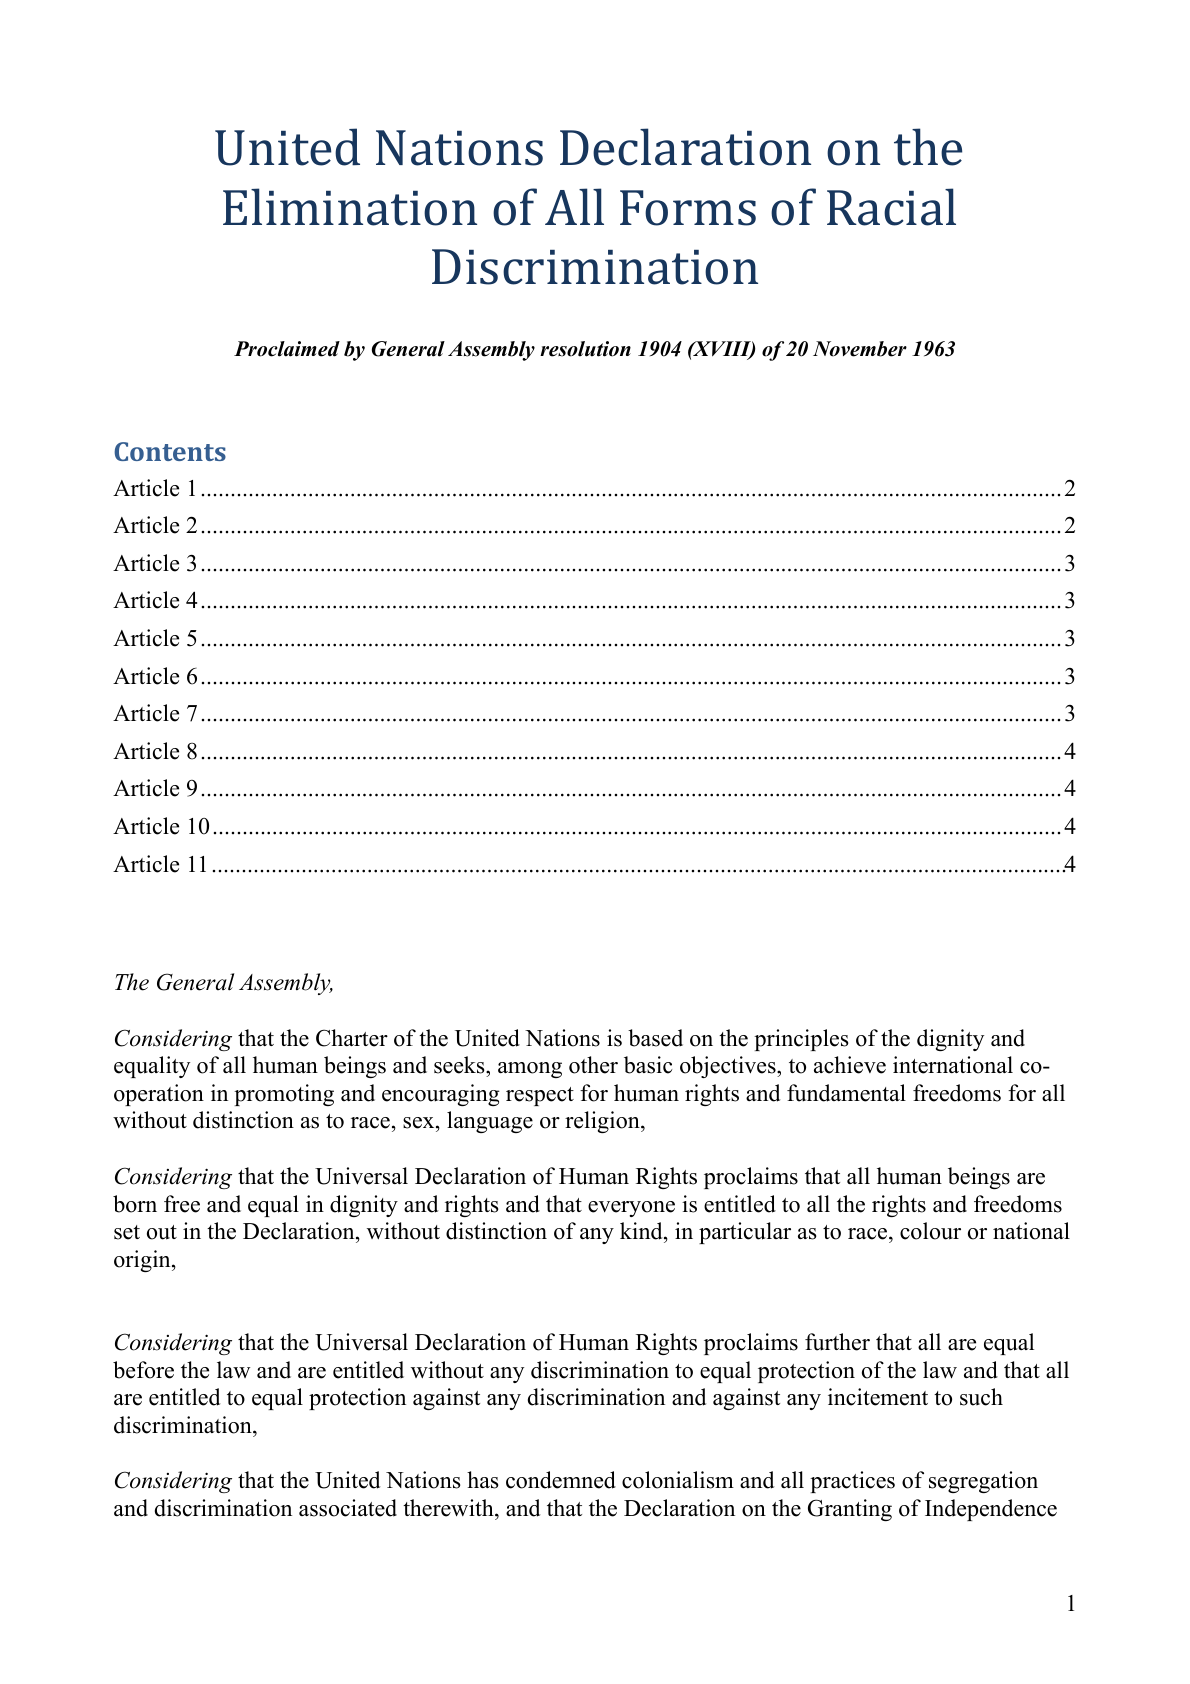
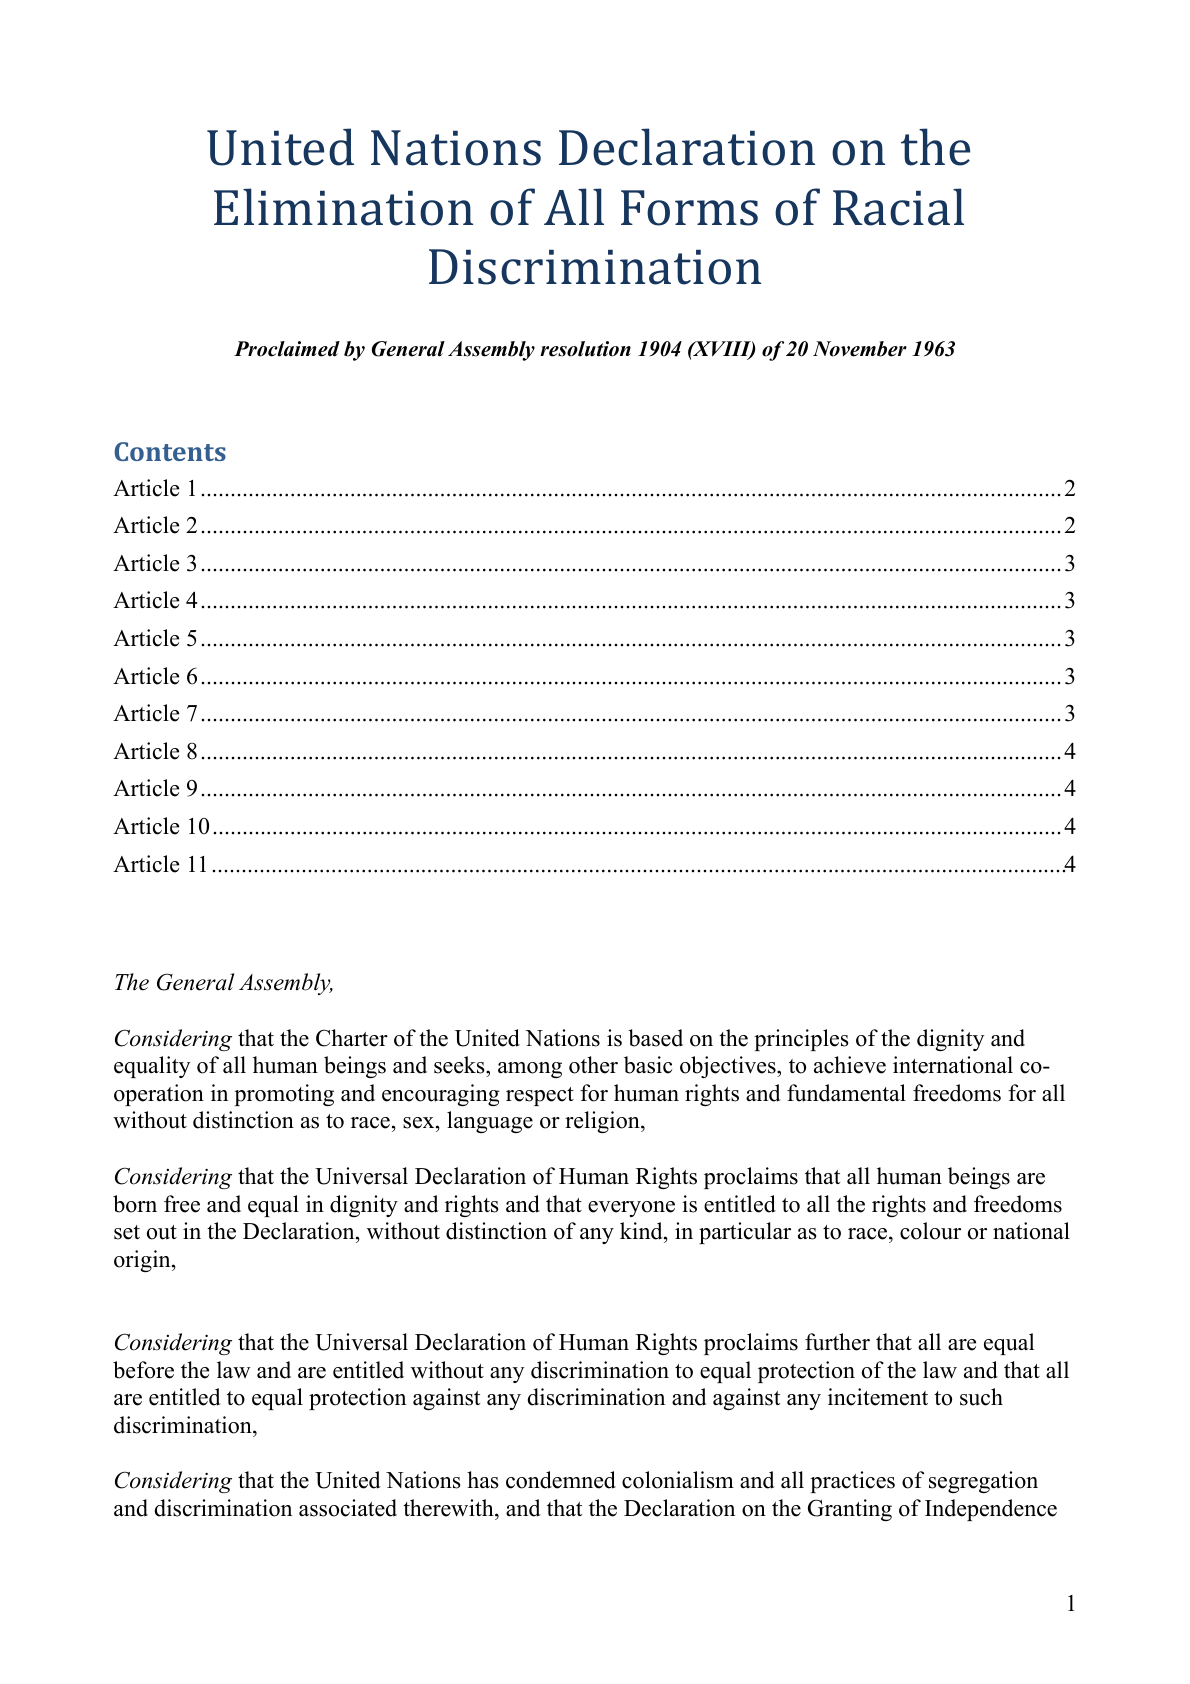
Word TOC parity: honor title character spacing

Changed region(s): [[0.1555, 0.0618, 0.4975, 0.1853], [0.5286, 0.0618, 0.8084, 0.1853]]

diff --git a/docs/word-parity-fixes.html b/docs/word-parity-fixes.html
@@ -153,6 +153,40 @@
     <tbody>
       <tr>
         <td>
+          <strong>TOC title character spacing</strong>
+          <span class="meta">Repro: <code>docx4j-toc.docx</code> Title paragraph on page 1.</span>
+          <span class="meta">Real fixture class: DOCX title/heading styles with expanded run spacing (<code>w:rPr/w:spacing</code>) that must affect measurement and paint.</span>
+          <span class="meta">Paths checked: DOCX import, browser layout/paint, PDF layout/paint, and the focused TOC parity guard.</span>
+        </td>
+        <td>
+          <div class="zoom">
+            <img src="images/word/toc-title-character-spacing-word.png" style="--w:1191px; --x:140px; --y:95px; --s:0.9" alt="Word reference: expanded TOC title character spacing">
+          </div>
+          <div class="caption">Word expands the Title style by <code>w:spacing w:val="5"</code> (0.25 pt). The first title line measures <code>382.996pt</code> in the Word PDF text bbox.</div>
+        </td>
+        <td>
+          <div class="zoom">
+            <img src="images/browser/toc-title-character-spacing-after.png" style="--w:1190px; --x:140px; --y:95px; --s:0.9" alt="After: expanded title spacing matches Word width">
+          </div>
+          <div class="caption">After: the imported character spacing is carried into layout and paint. The first title line now measures <code>383.599pt</code>, within <code>0.603pt</code> of Word.</div>
+        </td>
+        <td>
+          <div class="zoom">
+            <img src="images/baseline/toc-title-character-spacing-before.png" style="--w:1190px; --x:140px; --y:95px; --s:0.9" alt="Before: title rendered too narrow">
+          </div>
+          <div class="caption">Before: the title used the right Cambria face but ignored expanded character spacing, leaving the first line about <code>7.4pt</code> too narrow.</div>
+        </td>
+        <td>
+          <p><strong>Fix:</strong> import DOCX run spacing into <code>TextStyle.CharacterSpacing</code>, include it in wrapping/centering measurement, and paint it explicitly in browser canvas and embedded PDF text.</p>
+          <ul>
+            <li><code>src/Office.Formats/src/DocxReader.fs</code>, <code>DocumentProcessors.fs</code>, and <code>tools/native-runner/Program.fs</code>: carry <code>w:spacing</code> through style resolution as layout pixels.</li>
+            <li><code>src/ShaperText/ShaperText.fs</code>, <code>src/Word/Renderer.fs</code>, and <code>src/Word.Pdf/Pdf.fs</code>: include character spacing in measurement and render per-character advances instead of stretching glyph outlines.</li>
+            <li>Guard command: <code>node tools/word-parity/assert-docx4j-toc-parity.mjs artifacts/toc-style/browser-segments.json</code>.</li>
+          </ul>
+        </td>
+      </tr>
+      <tr>
+        <td>
           <strong>TOC body wrap: keep line-ending spaces from ejecting final words</strong>
           <span class="meta">Repro: <code>docx4j-toc.docx</code> body paragraphs on pages 2-4.</span>
           <span class="meta">Real fixture class: body paragraphs where a trailing space after the final word is wider than Word's visible line-fit decision.</span>
